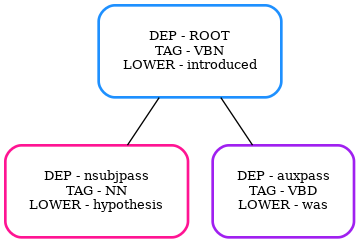
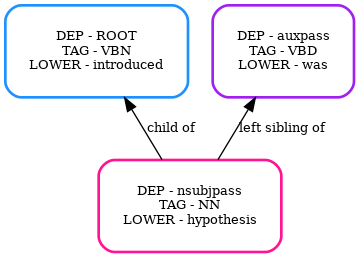
Updates for new spacy version

Changed region(s): [[0.0, 0.0, 1.0, 1.0], [0.9805, 0.0576, 1.0, 0.3457]]

diff --git a/role_pattern_nlp/match.py b/role_pattern_nlp/match.py
@@ -1,5 +1,5 @@
 import collections
-from spacy.matcher import DependencyTreeMatcher
+from spacy.matcher import DependencyMatcher
 from role_pattern_nlp import role_pattern_vis
 
 
@@ -14,7 +14,7 @@ class RolePatternMatch(collections.UserDict):
 
 
 def build_matcher(vocab, pattern_dict):
-    matcher = DependencyTreeMatcher(vocab)
+    matcher = DependencyMatcher(vocab)
     for name, pattern in pattern_dict.items():
         dep_pattern = pattern['spacy_dep_pattern']
         matcher.add(name, None, dep_pattern)
@@ -27,14 +27,15 @@ def find_matches(doc, pattern, pattern_name='pattern'):
     matches = matcher(doc)
     labels = pattern['token_labels']
     match_list = []
-    for match_id, token_idxs in matches:
+    for match_id, match_trees in matches:
         pattern_name = matcher.vocab.strings[match_id]
-        tokens = [doc[idx] for idx in token_idxs]
-        labels = pattern['token_labels']
-        match_dict = label_tokens(tokens, labels)
-        match_dict = RolePatternMatch(match_dict)
-        match_dict.match_tokens = tokens
-        match_list.append(match_dict)
+        for token_idxs in match_trees:
+            tokens = [doc[idx] for idx in token_idxs]
+            labels = pattern['token_labels']
+            match_dict = label_tokens(tokens, labels)
+            match_dict = RolePatternMatch(match_dict)
+            match_dict.match_tokens = tokens
+            match_list.append(match_dict)
     return match_list
 
 

diff --git a/setup.py b/setup.py
@@ -8,7 +8,7 @@ with open("requirements.txt") as fh:
 
 setuptools.setup(
     name="role-pattern-nlp",
-    version="0.0.8",
+    version="0.0.9",
     author="Nicholas Morley",
     author_email="nick.morley111@gmail.com",
     description=" Build and match patterns for semantic role labelling",

diff --git a/role_pattern_nlp/role_pattern_vis.py b/role_pattern_nlp/role_pattern_vis.py
@@ -37,6 +37,7 @@ DEFAULT_NODE_ATTRS = {
     'style': 'rounded',
     'penwidth': 2,
     'margin': 0.25,
+    **DEFAULT_STYLE_ATTRS,
 }
 
 LEGEND_ATTRS = {

diff --git a/README.md b/README.md
@@ -1,4 +1,4 @@
-# Role Pattern
+d# Role Pattern
 
 Build and match linguistic patterns for role labelling. Provides an example-driven approach to generate and refine patterns.
 
